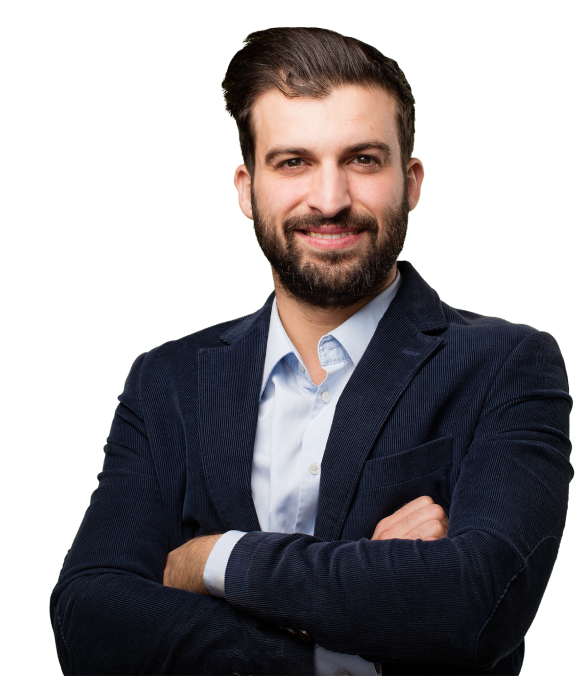
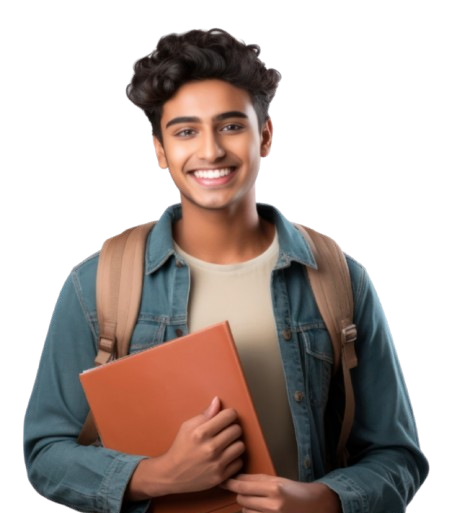
final commit

diff --git a/index.html b/index.html
@@ -1,6 +1,6 @@
 <!DOCTYPE html>
 <html lang="en">
-
+<!-- head section start -->
 <head>
     <meta charset="UTF-8">
     <meta name="viewport" content="width=device-width, initial-scale=1.0">
@@ -11,26 +11,37 @@
         rel="stylesheet">
     <link rel="stylesheet" href="style.css">
     <link rel="stylesheet" href="https://cdnjs.cloudflare.com/ajax/libs/font-awesome/6.7.2/css/all.min.css">
-
 </head>
+<!-- head section end -->
 
+<!-- body section start -->
 <body class="open-sans-body">
 
+    <!-- header section start -->
     <header class="second-bg">
+
+        <!-- nev section start -->
         <nav>
-            <h2>Ma<span>r</span>y</h2>
+
+            <h2>Ro<span>n</span>y</h2>
             <ul>
                 <li><a href="#">Portfolio</a></li>
                 <li><a href="#">Blog</a></li>
                 <li><a href="#"><button>Hire Me</button></a></li>
             </ul>
+
         </nav>
+        <!-- nev section end -->
+
+        <!-- bennar section start -->
         <section class="bennar">
+
             <div class="bennar-conten">
                 <h3>Hi, I am</h3>
-                <h1>Mary Hardy</h1>
+                <h1>Rony Ahmed</h1>
                 <p>Shot what able cold new see hold.Friendly as an betrayed formerly he. Morning because as to society
-                    behaved moments.</p><br>
+                    behaved moments.
+                </p><br>
 
                 <div>
                     <button class="bannar-button"><i class="fa-solid fa-arrow-down"></i> Downlod CV</button>
@@ -39,84 +50,113 @@
 
             </div>
 
-            <div class="bennar-img">
-                <img class="bennar-img" src="images/hardy.png" alt="">
-            </div>
-        </section>
-    </header>
+            <div class="bennar-img-div">
 
+                <img class="bennar-img" src="images/hardy.png" alt="">
+
+            </div>
+
+        </section>
+        <!-- bennar section end -->
+
+    </header>
+    <!-- header section end -->
+
+    <!-- main section start -->
     <main>
 
         <section class=" second-bg about">
+
             <div class="about-body">
+
                 <h1 class="section-title">About Me</h1>
                 <p class="section-descption">I, m a designer & developer with a passion for web design. I enjoy
                     developing simple, clean and slick websites that provide real value to the end user. Thousands of
                     clients have procured exceptional resulfs while working with me. Delivering work within time and
                     budget which meets clients requirements in our mata.</p>
                 <div class="about-div">
+
                     <div>
                         <h5>Name:</h5>
-                        <h3>Mary Hardy</h3>
+                        <h3>Rony Ahmed</h3>
                     </div>
+
                     <div>
                         <h5>Email:</h5>
-                        <h3>info@gmail.com</h3>
+                        <h3>ronyahmed32@gmail.com</h3>
                     </div>
+
                     <div>
                         <h5>Date of birth:</h5>
-                        <h3>11 November 1987</h3>
+                        <h3>11 November 2008</h3>
                     </div>
+
                     <div>
                         <h5>From:</h5>
-                        <h3>Los Angeles, USA</h3>
+                        <h3>Dhaka Bangladesh</h3>
                     </div>
+
                 </div>
+
             </div>
+
         </section>
 
         <section class="what-section">
+
             <div class="what">
+
                 <h1 class="section-title">What I do</h1>
                 <p class="section-descption whatp">I have more than 10 years experience building software for clients
                     all over the world. Below is a quick overview of my main technical skill sets and technologies i
                     use. Want to find out more about my experience? Check out my online resume and project portfolio.
                 </p>
                 <div class="what-div">
+
                     <div>
                         <img src="images/icons/js.png" alt="">
                         <h2>Vanilla JavaScript</h2>
                         <p>List skill/technologies here. You can change the icon above to any of the 1500+ FontAwesome 5
                             free icons available. Aenean commodo ligula eget dolor.</p>
                     </div>
+
                     <div>
                         <img src="images/icons/react.png" alt="">
                         <h2>React</h2>
                         <p>List skill/technologies here. You can change the icon above to any of the 1500+ FontAwesome 5
                             free icons available. Aenean commodo ligula eget dolor.</p>
                     </div>
+
                     <div>
                         <img src="images/icons/nodejs.png" alt="">
                         <h2>Node.js</h2>
                         <p>List skill/technologies here. You can change the icon above to any of the 1500+ FontAwesome 5
                             free icons available. Aenean commodo ligula eget dolor.</p>
                     </div>
+
                     <div>
                         <img src="images/icons/mongo.png" alt="">
                         <h2>MongoDB</h2>
                         <p>List skill/technologies here. You can change the icon above to any of the 1500+ FontAwesome 5
                             free icons available. Aenean commodo ligula eget dolor.</p>
                     </div>
+
                 </div>
+
             </div>
+
         </section>
 
         <section>
+
             <div>
                 <h1 class="section-title">A summary of My Resume</h1>
             </div>
+
             <div class="Resume">
+
                 <div class="Resume-div">
+
                     <h1 class="Education">My Education</h1>
                     <div>
                         <h1>Master in Computer Engineering</h1>
@@ -138,8 +178,11 @@
                         <p>List skill/technologies here. You can change the icon above to any of the 1500+ FontAwesome 5
                             free icons available. Aenean commodo ligula eget dolor.</p>
                     </div>
+
                 </div>
+
                 <div>
+
                     <h1 class="Education">My Experience</h1>
                     <div>
                         <h1>Sr. Font End Developer</h1>
@@ -161,17 +204,25 @@
                         <p>List skill/technologies here. You can change the icon above to any of the 1500+ FontAwesome 5
                             free icons available. Aenean commodo ligula eget dolor.</p>
                     </div>
+
                 </div>
+
             </div>
+
             <div class="buttondiv">
                 <button class="button22"><i class="fa-solid fa-arrow-down"></i> Downlod CV</button>
             </div>
+
         </section>
 
     </main>
+    <!-- main section end -->
 
+    <!-- footer section start -->
     <footer class="second-bg ">
+
         <section class="footer-section">
+
             <h1>Lets Connect</h1>
             <p>Please fill out the form on this section to contact with me or call between 9:00 A.M and 8.00 P.M ET,
                 Monday through Friday.</p>
@@ -180,19 +231,26 @@
                 <img src="images/icons/insta.png" alt="">
                 <img src="images/icons/twitter.png" alt="">
             </div>
+
         </section>
+
         <section class="footer-section">
+
             <h1>Let’s Message me</h1>
             <form action="">
+
                 <input type="text" placeholder="Your Name"><br>
                 <input type="email" placeholder="Your Email"><br>
                 <textarea name="" id="" rows="20" placeholder="Message"></textarea><br>
                 <input class="footer-button" type="button" value="Submit">
 
             </form>
+
         </section>
+
     </footer>
+    <!-- footer section end -->
 
 </body>
-
+<!-- body section end -->
 </html>

diff --git a/style.css b/style.css
@@ -1,3 +1,4 @@
+/* add font */
 .open-sans-body {
     font-family: "Open Sans", sans-serif;
     font-optical-sizing: auto;
@@ -48,18 +49,18 @@ nav ul button,
     border: none;
 }
 
+/* second background */
 .second-bg {
     background-color: #fff8f3;
 }
-
+/* header section */
 header {
     background-image: url("images/developer.png"), url('images/header_bg.png');
     background-repeat: no-repeat;
     background-position: top left, bottom right;
 }
 
-
-
+/* bennar section */
 .bennar {
     display: flex;
     justify-content: space-between;
@@ -67,17 +68,15 @@ header {
 }
 
 .bennar-img {
-    width: 590px;
-    height: 672px;
-    margin-bottom: 0px;
+    width: 80%;
+    height: 700px;
+     margin-bottom: -5px;
+    margin-left: 220px;
 }
 
 .bennar-conten {
     max-width: 580px;
-    height: 260px;
-    /* margin-top: 125px;
-    margin-right: 180px; */
-
+    align-items: center;
 }
 
 .bannar-button {
@@ -97,7 +96,6 @@ header {
     padding: 18px 35px;
     background-color: #fff8f3;
     font-weight: bold;
-
 }
 
 .bennar-conten h3 {
@@ -119,7 +117,7 @@ header {
 
 
 
-
+/* main section */
 main {
     max-width: 1140px;
     margin: 0 auto;
@@ -140,6 +138,7 @@ main {
     justify-content: center;
 }
 
+/* abput section */
 .about {
     padding: 130px 155px;
     text-align: center;
@@ -155,7 +154,6 @@ main {
     border: 1px solid black;
     /* background-color: #d6a2a200; */
     background-color: #FFFFFF;
-
 }
 
 .about-div {
@@ -164,7 +162,7 @@ main {
 }
 
 
-
+/* what section */
 .what-section {
     margin: 130px 0px;
 }
@@ -208,7 +206,7 @@ main {
 }
 
 
-
+/* resume section */
 .Resume {
     display: flex;
     gap: 30px;
@@ -228,7 +226,6 @@ main {
 
 .Resume div p {
     color: #757575;
-
 }
 
 .Resume div h5 {
@@ -244,7 +241,7 @@ main {
 }
 
 
-
+/* footer section */
 footer {
     display: flex;
     gap: 120px;
@@ -275,7 +272,6 @@ textarea {
 
 footer textarea {
     height: 180px;
-
 }
 
 .footer-button {
